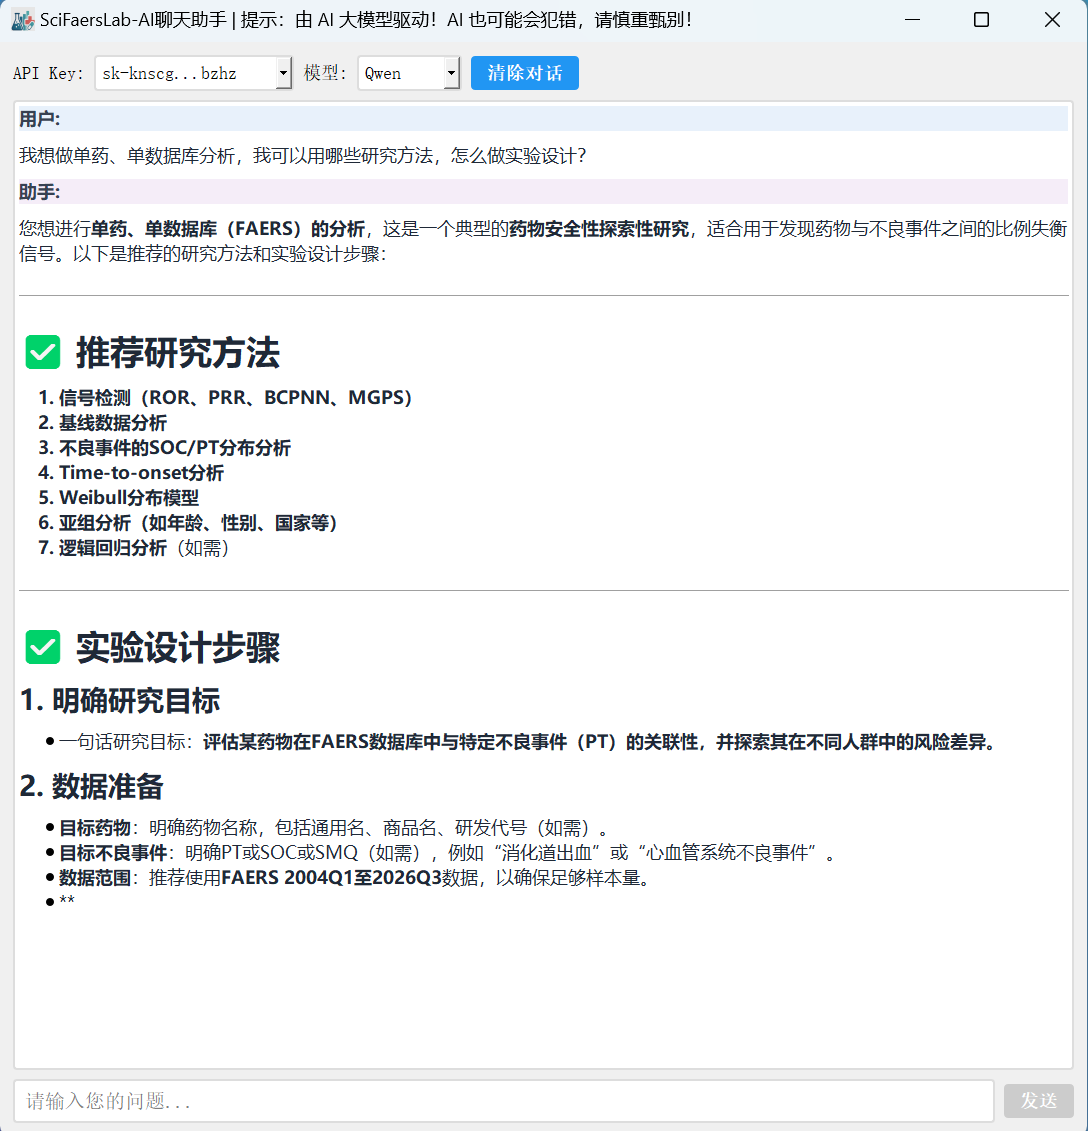
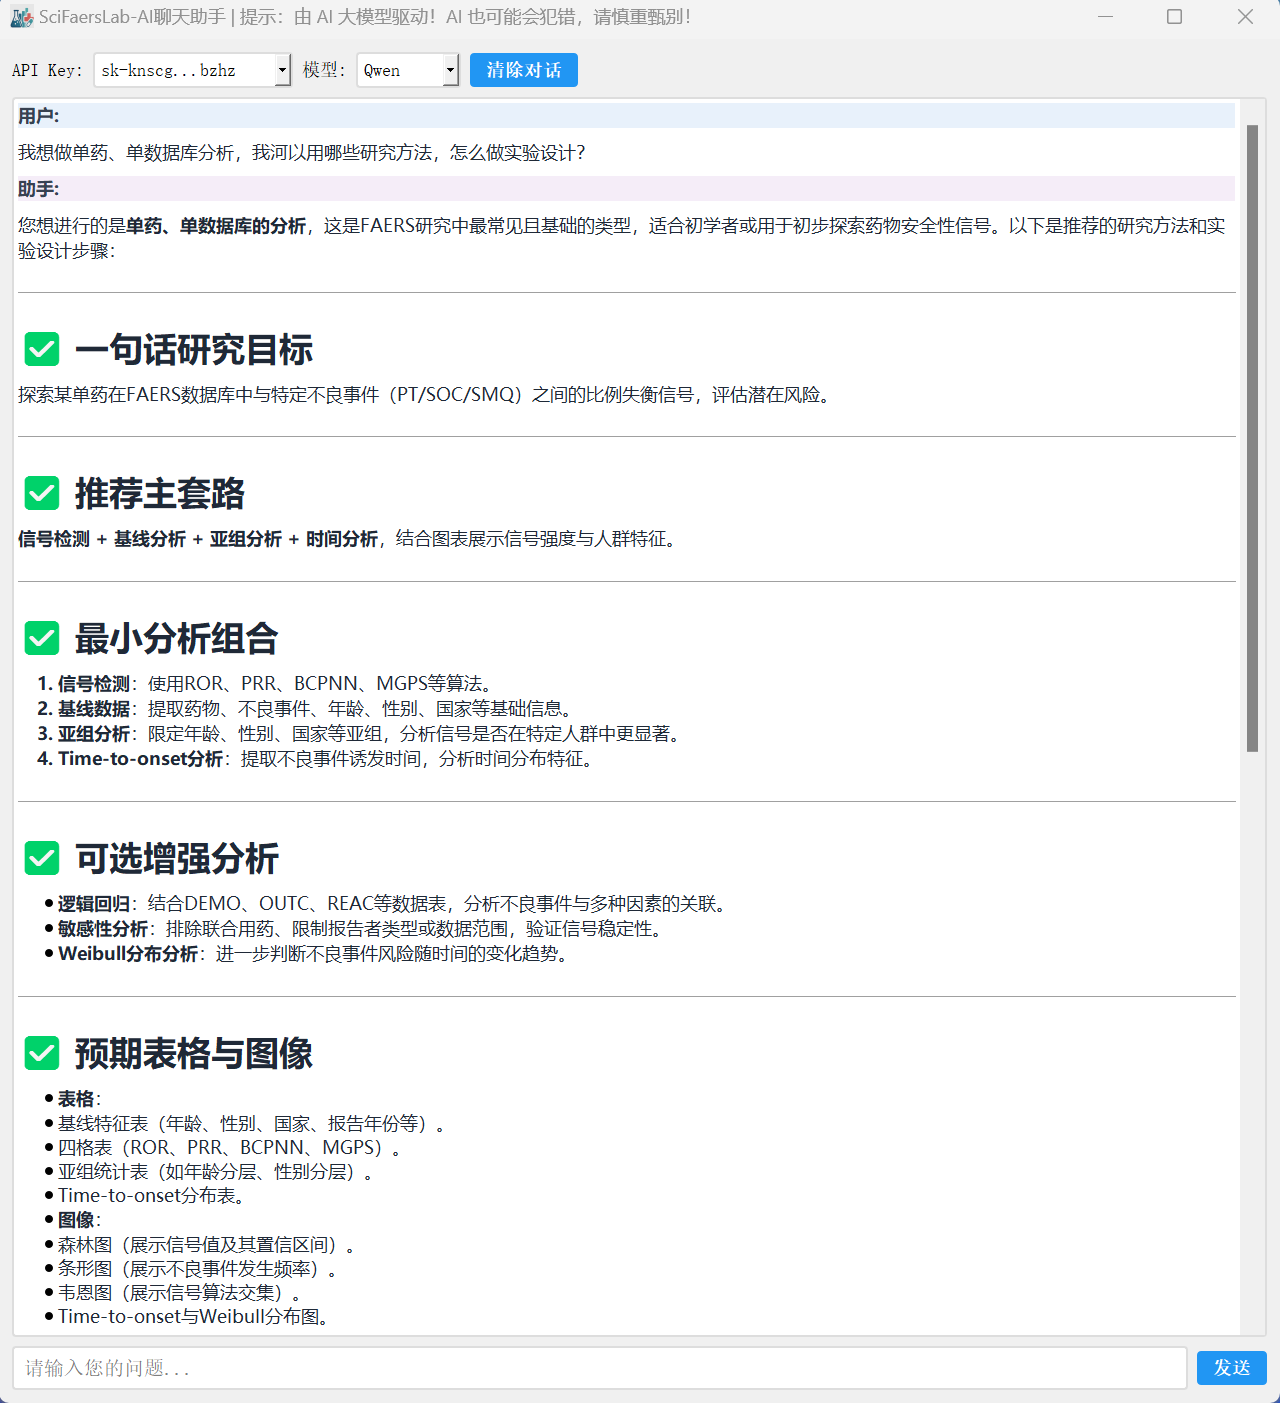
入口优化

Changed region(s): [[0.0, 0.0, 1.0, 0.9903], [0.9062, 0.9593, 1.0, 0.9903], [0.9688, 0.0, 1.0, 0.0309]]

diff --git a/README.md b/README.md
@@ -63,7 +63,7 @@
 |---|---|
 | **信号监测** | 按药物名称、商品名或组合条件检索，完成数据库清洗、去重、PT/SOC 映射和常用信号检测，导出统计表与原始结果。 |
 | **亚组分析** | 按年龄、性别、国家、上报者、联合用药或自定义条件分组；支持已有数据精细拆分，也支持大数据人群库构建。 |
-| **统计与预测** | 基线数据、描述统计、多因素 Logistic 回归、机器学习、共病分析、敏感性分析、诱发时间与累积发生率分析。 |
+| **统计与预测** | 基线数据、描述统计、多药分析、联用分析、多因素 Logistic 回归、机器学习、共病分析、敏感性分析、诱发时间与累积发生率分析。 |
 | **论文绘图** | 160+ 图形模板，覆盖森林图、火山图、小提琴图、韦伯分布、共病网络等；支持 PNG、PDF、SVG、EPS、TIFF 导出。 |
 | **其他数据库** | [JADER](./拓展模块/Jader数据库挖掘工具.md)、[CVARD](./拓展模块/CVARD加拿大数据库挖掘工具.md) 插件，以及 [DDI 药物相互作用](./拓展模块/DDI药物相互作用计算说明文档.md)、[网络药理学](./拓展模块/网络药理学拓展模块.md)和多药信号交联模块。 |
 | **选题与答疑** | 9000 种药物历史发表情况、FAERS 论文方法索引，以及内置平台提示词的 AI 聊天助手。 |
@@ -72,31 +72,31 @@
 
 选择脚本、载入结果表、点击运行，即可在平台内预览并保存图像。绘图工具也可以脱离完整分析系统单独使用。
 
-<p align="center">
+<p align="left">
 <img src="./pic/显示-新版绘图.png" alt="SciFaersLab 绘图工具：脚本预览、图像预览与多种格式导出" width="900">
 </p>
 
-<p align="center"><sub>图形界面中完成脚本选择、图像预览和 PNG / PDF / SVG / EPS / TIFF 导出。</sub></p>
+<p align="left"><sub>图形界面中完成脚本选择、图像预览和 PNG / PDF / SVG / EPS / TIFF 导出。</sub></p>
 
 ## 论文图表
 
 <table>
 <tr>
-<td align="center" width="50%">
+<td align="left" width="50%">
 <img src="./pic/四算法森林图.png" alt="ROR、PRR、BCPNN、MGPS 四算法森林图" width="420"><br>
 <sub>多算法联合森林图</sub>
 </td>
-<td align="center" width="50%">
+<td align="left" width="50%">
 <img src="./pic/多药累积发生率&小提琴对比.png" alt="多药累积发生率、诱发时间与统计表组合图" width="420"><br>
 <sub>累积发生率、诱发时间与统计表</sub>
 </td>
 </tr>
 <tr>
-<td align="center" width="50%">
+<td align="left" width="50%">
 <img src="./pic/信号森林图(复杂).png" alt="按 SOC 分组的不良反应信号森林图" width="420"><br>
 <sub>SOC 层级信号森林图</sub>
 </td>
-<td align="center" width="50%">
+<td align="left" width="50%">
 <img src="./pic/JADER亚组分析.png" alt="JADER 数据库亚组分析工具" width="420"><br>
 <sub>JADER 亚组分析模块</sub>
 </td>
@@ -107,8 +107,8 @@
 
 平台内置的 AI 助手带有 FAERS 数据分析和 SciFaersLab 操作提示词，适合用来梳理方法、核对操作步骤和启发研究设计。AI 回答由大模型生成，仍需结合原始数据、软件文档和文献判断。
 
-<p align="center">
-<img src="./pic/AI助手使用.png" alt="SciFaersLab AI 聊天助手讨论亚组分析" width="820">
+<p align="left">
+<img src="./pic/AI聊天助手-scifaerslab.png" alt="SciFaersLab AI 聊天助手讨论亚组分析" width="820">
 </p>
 
 ## 研究资源
@@ -117,22 +117,22 @@
 
 <table>
 <tr>
-<td align="center" width="50%">
+<td align="left" width="50%">
 <img src="./pic/药物发表情况.png" alt="9000 种药物历史发表情况与 FAERS 文章数量" width="420"><br>
 <sub>药物历史发表情况，用于判断选题空间</sub>
 </td>
-<td align="center" width="50%">
+<td align="left" width="50%">
 <img src="./pic/论文方法索引库.png" alt="FAERS 论文方法索引站" width="420"><br>
 <sub>按数据库、分析类型和研究方法筛选论文</sub>
 </td>
 </tr>
 </table>
 
-<p align="center">
-<img src="./pic/基本套路流程.png" alt="FAERS 数据挖掘研究的基本流程图" width="840">
+<p align="left">
+<img src="./pic/基本套路流程.png" alt="FAERS 数据挖掘研究的基本流程图" width="1200">
 </p>
 
-<p align="center"><sub>从研究目的、数据来源、信号检测到亚组和诱发时间分析，可按流程图组织研究。</sub></p>
+<p align="left"><sub>从研究目的、数据来源、信号检测到亚组和诱发时间分析，可按流程图组织研究。</sub></p>
 
 完整的研究框架、图表组合和常见套路见 [文章套路](./文章套路.md)；数据库覆盖范围、清洗逻辑和 Method 写法见 [数据库范围和方法说明](./数据库范围和方法说明.md)。
 
@@ -205,11 +205,11 @@
 
 ## 开始使用
 
-1. 观看 [平台旗舰演示](https://www.bilibili.com/video/BV1AHeozNEXt/)，确认工作流是否符合你的研究需求。
+1. 观看 [平台实操演示](https://www.bilibili.com/video/BV1AHeozNEXt/)，确认工作流是否符合你的研究需求。
 2. 免费体验 [绘图工具 v3.0](./绘图工具+部分脚本/绘图工具v3.0下载链接.md)，或先阅读 [软件操作说明](./软件操作说明.md)。
 3. 如需完整分析系统，添加微信并备注来意。
 
-<p align="center">
+<p align="left">
 <img src="./pic/wechat.jpg" alt="SciFaersLab 微信咨询" width="240">
 </p>
 
@@ -217,7 +217,7 @@
 
 <div align="center">
 
-国内访问：[Gitee 主站](https://gitee.com/Twilight-of-sea/sci-faers-lab) · 备用镜像：[GitHub](https://github.com/TwilightOfSea/Sci-Faers-Lab-Clone) · 视频教程：[平台旗舰演示](https://www.bilibili.com/video/BV1AHeozNEXt/)
+国内访问：[Gitee 主站](https://gitee.com/Twilight-of-sea/sci-faers-lab) · 备用镜像：[GitHub](https://github.com/TwilightOfSea/Sci-Faers-Lab-Clone) · 视频教程：[平台实操演示](https://www.bilibili.com/video/BV1AHeozNEXt/)
 
 [English README](README_en.md) · README 最后更新：2026-11-23
 

diff --git a/README_en.md b/README_en.md
@@ -72,31 +72,31 @@ Built for medical and pharmacy researchers, clinicians, and research teams. Clea
 
 Choose a script, load the result table, and run it. Preview and export the figure directly from the plotting tool, which can also be used without the full analysis system.
 
-<p align="center">
+<p align="left">
 <img src="./pic/显示-新版绘图.png" alt="SciFaersLab plotting tool with script selection, figure preview, and multiple export formats" width="900">
 </p>
 
-<p align="center"><sub>Select scripts, preview figures, and export as PNG, PDF, SVG, EPS, or TIFF in one graphical tool.</sub></p>
+<p align="left"><sub>Select scripts, preview figures, and export as PNG, PDF, SVG, EPS, or TIFF in one graphical tool.</sub></p>
 
 ## Paper Figures
 
 <table>
 <tr>
-<td align="center" width="50%">
+<td align="left" width="50%">
 <img src="./pic/四算法森林图.png" alt="Forest plot comparing ROR, PRR, BCPNN, and MGPS" width="420"><br>
 <sub>Multi-algorithm forest plot</sub>
 </td>
-<td align="center" width="50%">
+<td align="left" width="50%">
 <img src="./pic/多药累积发生率&小提琴对比.png" alt="Cumulative incidence, time-to-onset, and summary table for multiple drugs" width="420"><br>
 <sub>Cumulative incidence, TTO, and summary table</sub>
 </td>
 </tr>
 <tr>
-<td align="center" width="50%">
+<td align="left" width="50%">
 <img src="./pic/信号森林图(复杂).png" alt="SOC-level adverse event signal forest plot" width="420"><br>
 <sub>SOC-level signal forest plot</sub>
 </td>
-<td align="center" width="50%">
+<td align="left" width="50%">
 <img src="./pic/JADER亚组分析.png" alt="JADER subgroup analysis tool" width="420"><br>
 <sub>JADER subgroup module</sub>
 </td>
@@ -107,8 +107,8 @@ Choose a script, load the result table, and run it. Preview and export the figur
 
 The built-in assistant carries FAERS analysis and SciFaersLab operating prompts. It is useful for organizing methods, checking workflows, and exploring study designs. AI output is generated by a language model and should always be checked against the source data, documentation, and literature.
 
-<p align="center">
-<img src="./pic/AI助手使用.png" alt="SciFaersLab AI chat assistant discussing subgroup analysis" width="820">
+<p align="left">
+<img src="./pic/AI聊天助手-scifaerslab.png" alt="SciFaersLab AI chat assistant discussing subgroup analysis" width="820">
 </p>
 
 ## Research Resources
@@ -117,22 +117,22 @@ Topic discovery, study structure, and hands-on analysis use a consistent set of 
 
 <table>
 <tr>
-<td align="center" width="50%">
+<td align="left" width="50%">
 <img src="./pic/药物发表情况.png" alt="Historical publication information for 9,000 drugs and related FAERS articles" width="420"><br>
 <sub>Drug publication history for topic screening</sub>
 </td>
-<td align="center" width="50%">
+<td align="left" width="50%">
 <img src="./pic/论文方法索引库.png" alt="FAERS paper method index website" width="420"><br>
 <sub>Filter papers by database, analysis type, and method</sub>
 </td>
 </tr>
 </table>
 
-<p align="center">
-<img src="./pic/基本套路流程.png" alt="Basic FAERS research workflow from objective and data source to signal analysis and conclusions" width="840">
+<p align="left">
+<img src="./pic/基本套路流程.png" alt="Basic FAERS research workflow from objective and data source to signal analysis and conclusions" width="1200">
 </p>
 
-<p align="center"><sub>Organize a study around the objective, data source, signal detection, subgroup analysis, time-to-onset, and conclusions.</sub></p>
+<p align="left"><sub>Organize a study around the objective, data source, signal detection, subgroup analysis, time-to-onset, and conclusions.</sub></p>
 
 See [Research playbook](./文章套路.md) for study frameworks and figure combinations, and [Database scope and methods](./数据库范围和方法说明.md) for coverage, cleaning logic, and method-writing examples.
 
@@ -209,7 +209,7 @@ Support covers software usage and troubleshooting, not paper ghostwriting. For s
 2. Try the [free plotting tool v3.0](./绘图工具+部分脚本/绘图工具v3.0下载链接.md), or read the [software guide](./软件操作说明.md).
 3. For the full analysis system, add us on WeChat and mention SciFaersLab.
 
-<p align="center">
+<p align="left">
 <img src="./pic/wechat.jpg" alt="SciFaersLab WeChat contact" width="240">
 </p>
 
